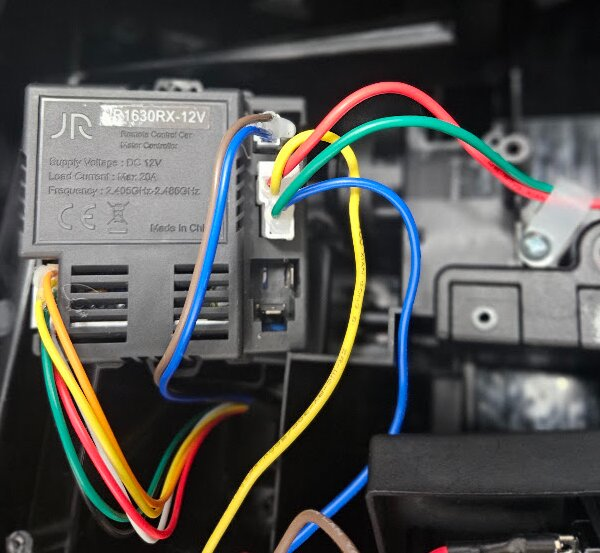
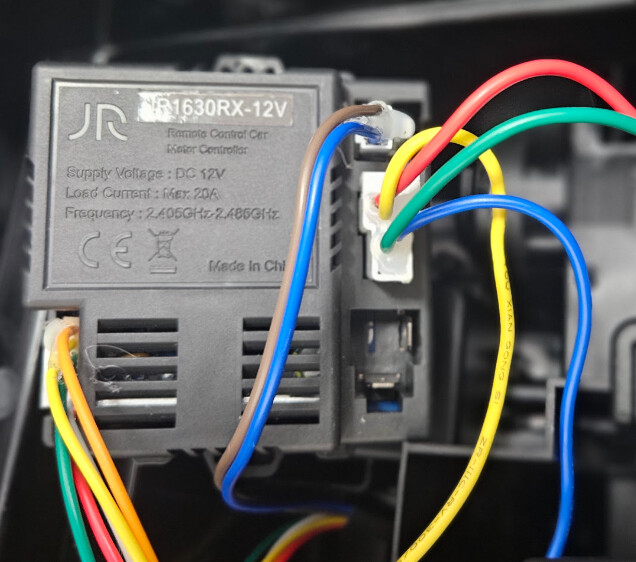
A sharper frame of the stock ECU, in which the plugs are legible
Replaces stock-ecu-wire-colours.jpg with a better frame of the same scene,
sent by the instructor today. It is not in the 123 images recovered from the
build log - it is new.

The old frame (600x553) showed the colours but blurred the connector bodies,
so a reader could see six conductors and not where any of them went. This one
(636x562) shows brown and blue entering the small 2-position housing and
red/green/yellow/blue entering the wider one.

That last part is worth the swap on its own. M1 carrying FOUR conductors on
TWO blades is why the drive tap is a single tap and not two, which this page
asserts in the table and could not show. Caption rewritten to say it.

Checked first whether this closed 01-bom:2375 - "the drive motors are
connectorised too (photographed 2026-10-02 - a white 2-pin carrying the
red/green motor pair)". It does not: that claim is about the MOTOR end and
this is the ECU end. The page distinguishes the two ends correctly, so the
claim stands; only its photograph is missing.

22 checks pass. 15 photographs.

Claude-Session: https://claude.ai/code/session_01DRtKXsmjmoJW7KizFXz9KH

diff --git a/docs/images/photos/MANIFEST.md b/docs/images/photos/MANIFEST.md
@@ -38,7 +38,7 @@ a reference rather than a copy. The same applies to scans of third-party manuals
 | `battery-bay-measured.jpg` | The same bay from above with the measurements drawn on at the time: 37 × 21 cm, seat screws 300 apart, spare holes 100 apart, 13 cm bay depth and 13 cm rim height | #1 | 2026-10-20 | [02-mechanical §2.7.1](../../build/02-mechanical.md#271-what-this-stage-actually-builds) | **Your bay.** Three vehicles; the figures are a reference to check against, not to assume |
 | `traction-pack-label.jpg` | The traction pack's own label: type, chemistry, capacity, and both charge-voltage rows | #1 | 2026-11-09 *(label first read into the record 2026-11-05)* | [vehicle.md §3.1.1](../../design/vehicle.md#311-the-traction-pack-from-its-own-label) | Pack condition or state of charge |
 | `stock-ecu-pcb-silkscreen.jpg` | The stock ECU's bare board: the `M3±`/`M2±`, `M1` and `P1` silkscreen, and `JR1630RX 20201216` | #1 | 2026-11-06 | [02-mechanical §2.2](../../build/02-mechanical.md#22-teardown) | Which conductor is which **on your vehicle** — the silkscreen names sockets, not colours |
-| `stock-ecu-wire-colours.jpg` | The same module installed, with its wire bundle: red/green, blue/yellow, brown, white | #1 | 2026-11-06 | [02-mechanical §2.2](../../build/02-mechanical.md#22-teardown) | **Any wiring decision.** Colour is the weakest evidence on this vehicle; trace, do not match |
+| `stock-ecu-wire-colours.jpg` | The same module installed with its plugs in: brown and blue into the small 2-position housing, red/green and yellow/blue into the wider one — four conductors on two blades | #1 | 2026-11-06 | [02-mechanical §2.2](../../build/02-mechanical.md#22-teardown) | **Any wiring decision.** Colour is the weakest evidence on this vehicle; trace, do not match |
 | `relay-5-pin-body.jpg` | The 5-pin relay moulding: `KKA B8`, `COIL:12VDC`, `70A/14VDC`, `40A/28VDC`, and a schematic with `87a` | #1's part | 2026-10-26 | [01-bom-sourcing §1.3](../../build/01-bom-sourcing.md#7-8-11-12-14-what-to-actually-buy) | A different batch. Relay markings vary by shipment — this is why the page says read the part |
 | `relay-4-pin-body.jpg` | The 4-pin relay moulding: `KKA V4`, `012-1H-12`, `NO 40A 14VDC`, four terminals and no `87a` | #1's part | 2026-10-26 | [01-bom-sourcing §1.3](../../build/01-bom-sourcing.md#7-8-11-12-14-what-to-actually-buy) | As above |
 | `drive-hub-caliper.jpg` | A caliper across two opposite lobe crests of the drive hub, reading 62.82 mm | #1 | 2026-11-04 | [01-bom-sourcing §1.3](../../build/01-bom-sourcing.md#7-8-11-12-14-what-to-actually-buy) | **Your hub.** Three vehicles, and the same hub read 62.23, 62.70 and 62.82 across three sessions |

diff --git a/docs/build/02-mechanical.md b/docs/build/02-mechanical.md
@@ -77,13 +77,17 @@ Work in this order and bag-and-tag fasteners by panel.
 
    ![The stock ECU's bare board, component side up. The silkscreen along the top edge reads M3- M3+ over M2- M2+ beside a white two-position header, then M1 beside a pair of large solder pads, then P1 beside a minus and a plus pad; JINGRAN TECHNOLOGY is printed across the middle and JR1630RX 20201216 at the lower right, above a yellow multiway connector whose pins are marked H/L, S/F, S/B, VSS and +BA](../images/photos/stock-ecu-pcb-silkscreen.jpg)
 
-   ![The same module installed, lid on, with its wire bundle leaving the near edge: a red and a green conductor, a blue and a yellow conductor, a brown one and a white one, running to a white two-position plug and on into the loom. The case is printed JR1630RX-12V, Remote Control Car Motor Controller](../images/photos/stock-ecu-wire-colours.jpg)
+   ![The same module installed, lid on, seen from above. Its case reads JR1630RX-12V, Remote Control Car Motor Controller, Supply Voltage DC 12V, Load Current Max 20A. A brown and a blue conductor bend up into a small white two-position connector; below it a wider white connector takes a red and green pair and a yellow and blue pair, four conductors into two positions](../images/photos/stock-ecu-wire-colours.jpg)
 
    *Vehicle #1, 2026-11-06 ([provenance](../images/photos/MANIFEST.md)). **The silkscreen above is
-   what the table was read off.** The colours in the second photograph are vehicle #1's and were
-   traced individually; treat them as a sanity check on your own tracing, never as a wiring
-   instruction — [03-electrical §3.3](03-electrical.md#33-the-three-taps) says why colour is the
-   weakest evidence available here.*
+   what the table was read off.** The second photograph is the same module with the plugs in, and
+   it shows the one thing a colour list cannot: **which pair enters which connector.** Brown and
+   blue go to the small two-position housing — steering. Red, green, yellow and blue go to the
+   wider one — **both** rear motors, four conductors on two blades, which is why `M1` is a single
+   tap and not two. The colours are vehicle #1's and were traced individually; treat them as a
+   sanity check on your own tracing, never as a wiring instruction —
+   [03-electrical §3.3](03-electrical.md#33-the-three-taps) says why colour is the weakest evidence
+   available here.*
 
    > [!WARNING]
    > **`P1` is on this list because it is on the module, not because you tap there.**
